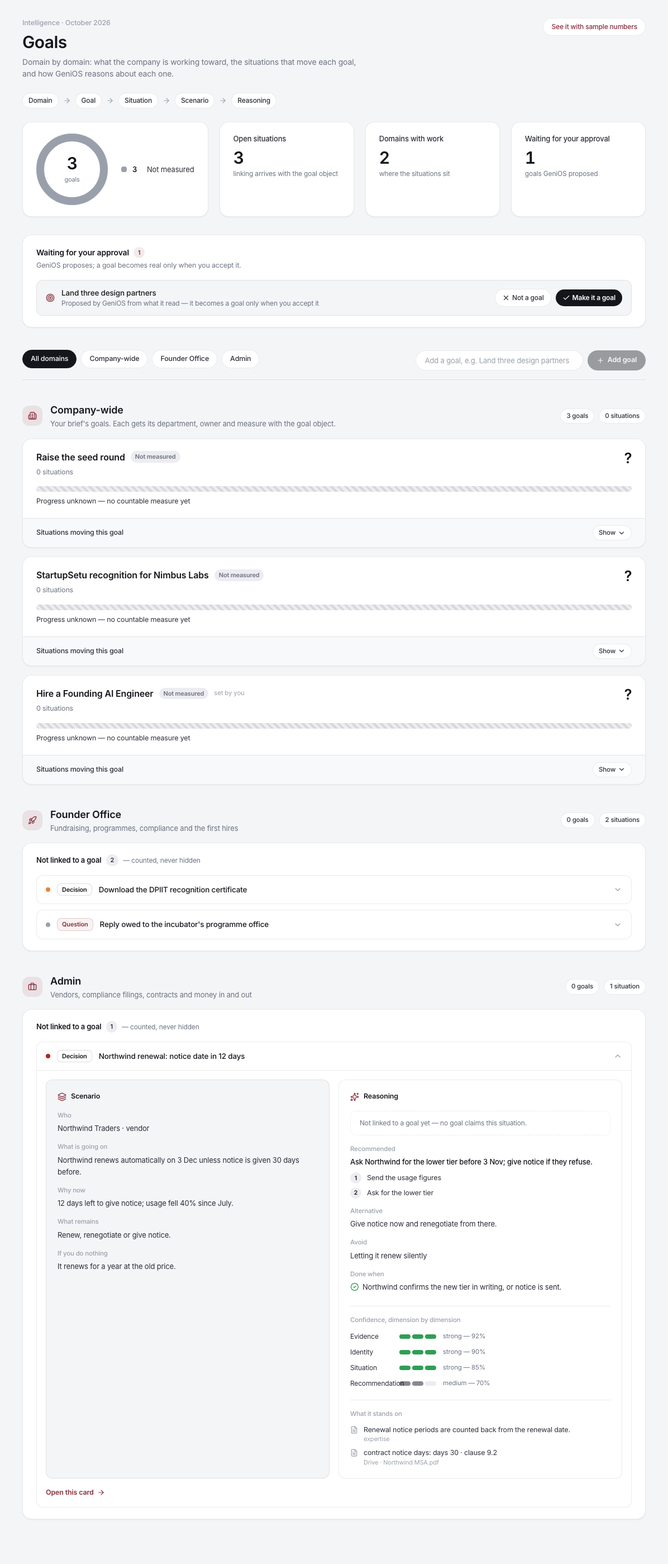
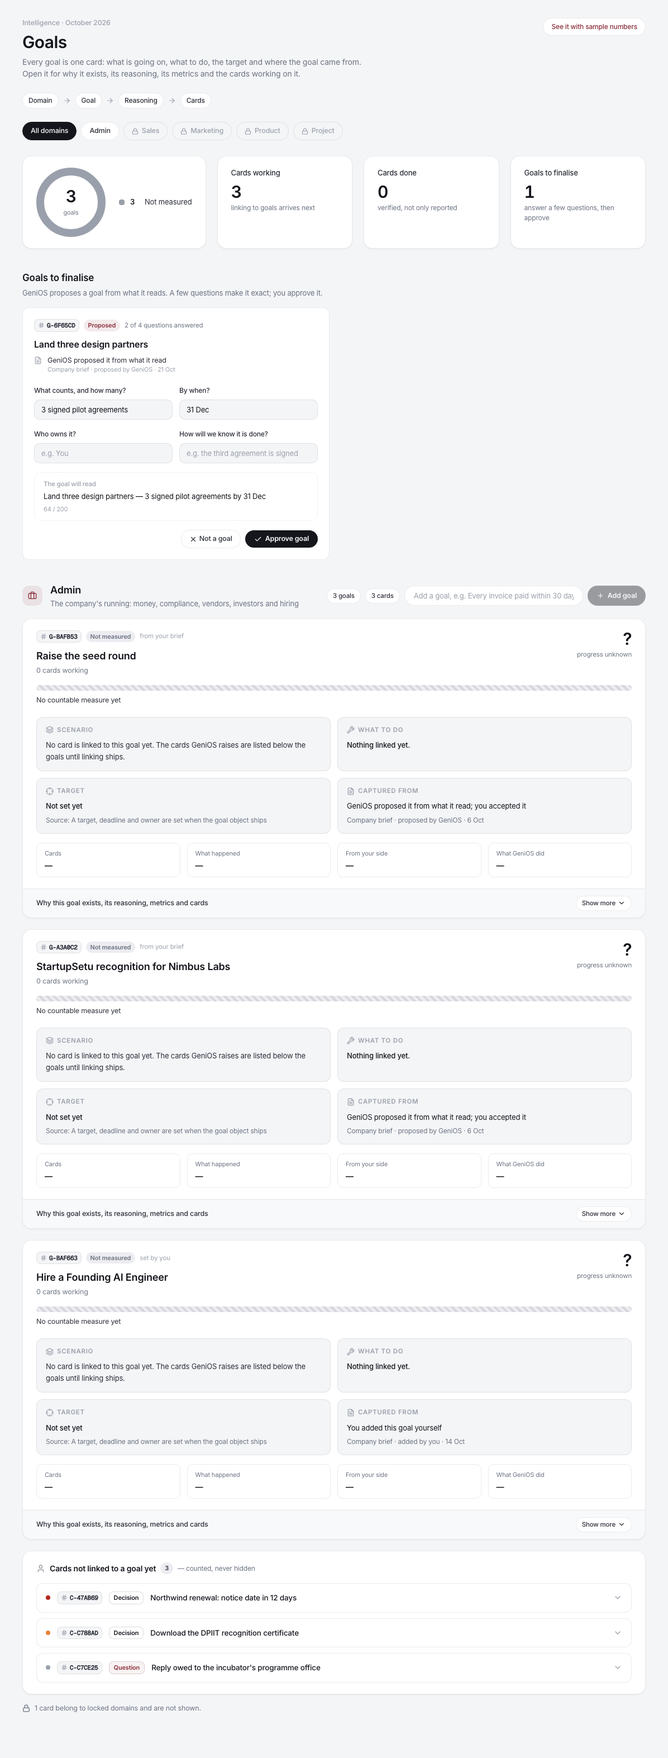
GeniOS-010: the Goals page as one goal, one card — what Harsh wires and what the brain returns
03-GOALS/01-GOALS-PAGE.md rewritten for dashboard e4ff9ce: the goal card's face (scenario,
what to do, target and source, captured from) and Show more (why with proof, reasoning,
metrics, numbered cards), ids and card numbers, finalise-then-approve, Admin-only domains,
live vs sample, and §5 — the fields GET /v1/goals must return for every part. Decisions
D-010-G5 (stable card ordinals) and G6 (Admin only); screenshots, stand-in brain, log.

diff --git a/speedrun008/GeniOS-010/02-DASHBOARD-HOME/tools/mock_brain.py b/speedrun008/GeniOS-010/02-DASHBOARD-HOME/tools/mock_brain.py
@@ -4,7 +4,8 @@ Serves on 127.0.0.1:8000 and allows CORS (with credentials) from http://localhos
 for another port. Paths use the org id `org_preview`; plant it as `genios_org_id` in the browser (see
 ../06-RUN-AND-TEST.md §4). Every body mirrors the shape the real route returns; edit a value to see an
 edge case (a failing source, a succeeded delegation, outcomes > 0). The Goals page's writes work too:
-POST /v1/company-brief/lines adds a goal, POST …/proposals/{id}/decide accepts or rejects one (in memory).
+POST /v1/company-brief/lines adds a goal; POST …/proposals/{id}/decide accepts (in the sent `text`,
+as the brain does) or rejects one — in memory. One card is in the locked Sales domain on purpose.
 Unknown paths → 404.
 """
 import json
@@ -80,6 +81,10 @@ ROUTES = {
          "headline": "Northwind renewal: notice date in 12 days", "score": 85, "state": "surfaced",
          "situation": "Northwind renews automatically on 3 Dec unless notice is given 30 days before.",
          "created_at": iso(50), "expires_at": iso(-200)},
+        {"card_id": "c-sales", "signal_id": "s4", "assignee": None, "urgency_band": "standard",
+         "headline": "Follow up on the Acme pilot proposal", "score": 30, "state": "surfaced",
+         "situation": "A sales thread — its domain is locked for this workspace.",
+         "created_at": iso(60), "expires_at": iso(-200)},
     ]},
     "/v1/expertise/domains": {"active_count": 2, "available_count": 2, "domains": [
         {"id": "founder_office", "name": "Founder Office", "version": "1", "status": "ga", "description": "",
@@ -92,6 +97,7 @@ ROUTES = {
 
 # GET /cards/{id}: card.v1 plus the decision projection, the way the brain's get_card returns it.
 CARD_DETAILS = {
+    "c-sales": {"domain": "sales", "output_lane": "decision"},
     "c-dpiit": {"domain": "founder_office", "output_lane": "decision", "business_subject": "StartupSetu desk",
                 "relationship_role": "the programme", "why_now": "Banks and two programmes asked for it this month.",
                 "unresolved_item": "Download it and save it to Compliance.",
@@ -171,8 +177,9 @@ class H(BaseHTTPRequestHandler):
             if proposal is not None:
                 brief["proposals"].remove(proposal)
                 if sent.get("decision") == "accept":
-                    brief["lines"].append({**{k: proposal[k] for k in ("line_id", "section", "text", "kind", "proposed_by")},
-                                           "accepted_at": iso(0)})
+                    # The brain accepts in the founder's own words when `text` is sent (store.accept words=…).
+                    brief["lines"].append({**{k: proposal[k] for k in ("line_id", "section", "kind", "proposed_by")},
+                                           "text": sent.get("text") or proposal["text"], "accepted_at": iso(0)})
                 body = {"line_id": line_id, "status": "accepted" if sent.get("decision") == "accept" else "rejected",
                         "promoted": 0}
         else:

diff --git a/speedrun008/GeniOS-010/03-GOALS/01-GOALS-PAGE.md b/speedrun008/GeniOS-010/03-GOALS/01-GOALS-PAGE.md
@@ -1,118 +1,142 @@
-# 03.1 · The Goals page: Intelligence → Goals
+# 03.1 · The Goals page: one goal, one card
 
 **Written for:** Harsh.
 
 **Status, 22 Oct 2026:** built, and live where the brain allows it.
+- **Commits** on `rohit/nav-grouping` (`genios-brain-dashbaord`):
+  - `f137d41`: first version;
+  - `e4ff9ce`: reworked to Rohit's model below.
+- **Route:** `/dashboard/goals`, at Intelligence ▸ **Goals**. The home page's "This month's goal" heading links to it.
 
-- **Commit:** `f137d41` on `rohit/nav-grouping` (`genios-brain-dashbaord`).
-- **Route:** `/dashboard/goals`. It is unlocked in the nav (Intelligence ▸ Cards · **Goals** · Screen), and the home page's "This month's goal" heading links to it.
-
-**Rohit's ask:**
-- *"domain-wise goals honge, goals-wise situations honge, situation-wise scenarios honge, aur uske regarding reasoning"*.
-- That chain is the page.
+**Rohit's model, in his words (22 Oct):**
+- *"Goals banenge, goals ke regarding cards banenge. Cards ki reasoning wo apna part hoga."*
+- *"Ek goal ka ek card."* Its face shows *kya scenario hai · kya karna hai · target kahan se hai · capture kahan se hai*.
+- **Show more** holds why the goal exists, where it was captured, the reasoning, and all its cards.
+- *"Pehle sawaal pooch kar hum goals final kar lein, phir approve karwa lein."*
+- *"Ek goal ke andar kai cards … jab tak goal complete nahi ho jata."*
+- Metrics without bombarding: what happened, the loopholes from your side, and what we did.
+- Every goal has a UUID-style id, and its cards are numbered, so anything is identified at once. Behind everything sits a proof.
+- **Domains:** Admin only. Sales, Marketing, Product and Project are shown but locked. Founder Office is removed (folded into Admin).
 
 **Screenshots** (in `screens/`):
 
 | File | What it shows |
 |---|---|
-| `goals-sample-top.png` · `goals-sample-bottom.png` | The target, in sample mode. The first situation is opened. |
-| `goals-signed-in.png` | A signed-in owner, against the stand-in brain (`../02-DASHBOARD-HOME/tools/mock_brain.py`). Northwind is opened. |
+| `goals-sample-top.png` · `goals-sample-bottom.png` | The target, in sample mode. The first goal is open. |
+| `goals-signed-in.png` | A signed-in owner, against the stand-in brain. |
 
 ---
 
-## 1 · What the page shows, top to bottom
+## 1 · The page, top to bottom
 
-1. **Header:** "Intelligence · October 2026", **Goals**, one line on what the page is. In live mode, a "See it with sample numbers" link.
-2. **The chain as pills:** Domain → Goal → Situation → Scenario → Reasoning. It tells the reader how to read everything below.
-3. **Overview:**
-   - a **donut of goals by status**: done · on track · at risk · blocked · not measured;
-   - three tiles: **open situations** (and how many are linked to a goal), **domains with work**, and **waiting for your approval**.
-4. **Waiting for your approval:**
-   - the goals GeniOS **proposed** from what it read, each with **Not a goal** / **Make it a goal**;
-   - invariant: *an inferred goal never becomes approved without a human* (GeniOS-009 05 §5).
-5. **A filter row:** All domains · each domain (scopes everything below), and **Add a goal** (the founder's own goal, in force at once).
-6. **One section per domain:**
-   - **Header:** icon, name, one line on what it covers, and pills (N goals · N situations · average progress when measurable).
-   - **A card per goal:**
-     - the statement, a status chip and "set by you" when the founder added it;
-     - owner · due · number of situations;
-     - **progress % with a bar and a dark "today" marker**. Unknown progress is a striped bar with "?", never 0;
-     - a **"Situations moving this goal"** row with relation chips (N advances · N threatens · N depends on) and **Show / Hide**.
-   - **Situations under a goal, ordered decision → conflict → question → waiting, then by urgency.** Each row shows an urgency dot, a lane chip, the headline, a relation chip and the due date. **Click it to open:**
-     - **Scenario:** who · what is going on · why now · what remains · if you do nothing;
-     - **Reasoning:**
-       - what it does to the goal ("Advances *Raise the seed round* through a sixth fund entering diligence");
-       - recommended, with numbered steps;
-       - alternative · avoid · wait or stop;
-       - **done when**;
-       - **confidence, dimension by dimension**, with the word and its reason;
-       - **what it stands on**: the quoted lines and their source;
-     - **Open this card →** (`/dashboard/cards?card=<id>`) for a live card.
-   - **Not linked to a goal (N), "counted, never hidden"**: the situations in this domain that no goal claims. GeniOS-009 06 §3 and §6: a card with no goal is shown and counted, never dropped.
+1. **Header** and the chain: **Domain → Goal → Reasoning → Cards**.
+2. **Domain tabs:** All domains · **Admin** · 🔒 Sales · 🔒 Marketing · 🔒 Product · 🔒 Project. A locked tab opens a "{Domain} is locked" panel with a link to Domains ▸ Expertise. Nothing of a locked domain is drawn.
+3. **Overview:** a donut of goals by status, then three tiles: **cards working** · **cards done** (verified, not only reported) · **goals to finalise**.
+4. **Goals to finalise:** for every goal GeniOS proposes, the ProposedGoalCard shows:
+   - its id `G-XXXXXX` and a **Proposed** chip;
+   - where GeniOS saw it (proof);
+   - **four questions**: what counts and how many · by when · who owns it · how we will know it is done;
+   - **"The goal will read …"**: the line the answers make, at most 200 characters (the brief's limit);
+   - **Not a goal** / **Approve goal**.
+5. **Admin:** a header with goal and card counts, and **Add a goal**. Then one **goal card** per goal.
+6. **Cards not linked to a goal yet:** counted, never hidden, each numbered `C-XXXXXX`.
+7. **Cards of locked domains:** counted in one line ("1 card belongs to a locked domain…"), not drawn.
 
-## 2 · Live vs sample
+## 2 · The goal card
+
+```
+┌─────────────────────────────────────────────────────────────────────────────┐
+│ #G-3F2A9C  On track  from your brief                                   40%  │
+│ Raise the seed round                                              progress  │
+│ Owner: You · Due 31 Dec · 4 cards working · 1 done                          │
+│ ████████████░░░░░░░░░│░░░░░░░  (the dark mark = where it should be today)   │
+│ 2 of 5 funds in diligence                                                   │
+│ ┌ SCENARIO ─────────────────────┐ ┌ WHAT TO DO ──────────────────────────┐ │
+│ │ Five funds in play: …         │ │ Reply to Rahul today; send Mohit …   │ │
+│ ├ TARGET ───────────────────────┤ ├ CAPTURED FROM ───────────────────────┤ │
+│ │ ₹4 Cr committed by 31 Dec     │ │ "We're raising a ₹4 Cr seed round…"  │ │
+│ │ Source: your brief, 2 Oct …   │ │ Gmail · your mail to Anil · 28 Sep   │ │
+│ └───────────────────────────────┘ └──────────────────────────────────────┘ │
+│ [Cards 4 open · 1 done] [What happened 3] [From your side 2 gaps] [GeniOS did 3] │
+├ Why this goal exists, its reasoning, metrics and cards          Show more ▾ ┤
+│ Why this goal exists — the reason, with proof lines (source · date)         │
+│ Reasoning — how progress is counted, what moves it, what threatens it       │
+│ Metrics — What happened · From your side (loopholes) · What GeniOS did,     │
+│           each line with its proof                                          │
+│ Cards for this goal — they keep coming until the goal is done               │
+│   ● #G-3F2A9C · C01  Decision  Write to Rahul Menon…   Advances   today ▾   │
+│       → Scenario (who · what · why now · what remains · if nothing)         │
+│       → The card's reasoning (impact on the goal · recommended + steps ·    │
+│         alternative · done when · confidence by dimension · proof)          │
+│   ● #G-3F2A9C · C05  Done — verified                                        │
+│ Goal ID cbl_3f2a9c1e07b84d6a9e52c1d0                                        │
+└─────────────────────────────────────────────────────────────────────────────┘
+```
+
+**Ids:**
+- **A goal's code** = `G-` + the first six hex characters of its id (`cbl_…` today, `goal_id` after G1). The full id is printed at the foot of the open card.
+- **A card's number** = `{goal code} · C{nn}`, numbered within its goal. An unlinked card is `C-` + the first six hex characters of its `card_<hex>` id.
+- ⚠ **Brain:** today `nn` is the card's position in the list. For a number that never shifts, G4 should store an ordinal per link (`goal_situation_links.ordinal`, assigned when first admitted) and return it. See §5.
+
+## 3 · Live vs sample
 
 | | Sample (`?demo=1`, or localhost signed out) | Live, signed in, today |
 |---|---|---|
-| Domains | Founder Office, Admin | **Company-wide** (the brief's goals; they have no department yet), plus every domain that has an open card (`card.domain`, named from `/v1/expertise/domains`) |
-| Goals | 6, with status, %, pace, owner, due | the brief's **accepted** goal lines: status **Not measured**, progress unknown (no G5) |
-| Situations under a goal | linked, with a relation | **none yet.** The goal says so ("Situations are linked to goals by the goal object…"), because there is no G4 |
-| Not linked | 1 (F22) | **every open card**, under its domain |
-| Scenario | sample lines | the card's real lines: `business_subject · relationship_role`, `situation`, `why_now`, `unresolved_item`, `do_nothing_consequence` |
-| Reasoning | full target: impact, six confidence dimensions | the card's real reasoning: `decision.recommendation` (verdict, steps, avoid), `alternative`, `wait_or_stop`, `success_signal` (done when), `decision.confidence` (each 0–1 → strong ≥ 75% · medium ≥ 50% · weak), `why[]` (readings, doctrine, check lines) |
-| Proposals · add a goal | buttons shown, disabled | **work**: `POST …/proposals/{id}/decide` and `POST /v1/company-brief/lines` |
+| Goals | 5 Admin goals with status, %, owner, due and the full face | the brief's **accepted** goal lines, in Admin. Status **Not measured**; target "Not set yet"; scenario and what-to-do say no card is linked yet |
+| Captured from | a mail, a calendar entry or "added by you", with date | **real**: "GeniOS proposed it from what it read; you accepted it" or "You added this goal yourself", with the accepted date |
+| Why it exists + proof | sample reason with proof lines | **real**: it is a goal in your brief, with the goal line and its date as proof |
+| Metrics | three lists with proof | "—". Counted per goal once cards are linked |
+| Cards in a goal | numbered, linked, each with reasoning | none yet (no G4). Every Admin card is under "Cards not linked to a goal yet" with its **real** scenario and reasoning |
+| Goals to finalise | one proposal, two of four questions answered, buttons disabled | **works**: the answers make the line, and **Approve goal** accepts it *in those words* (`decide` with `text`). **Not a goal** rejects it |
+| Add a goal | disabled | **works**: `POST /v1/company-brief/lines` |
+| Locked domains | — | cards whose `domain` is not `admin` / `founder_office` are counted, not shown |
 
-## 3 · Files
+Checked against the stand-in brain:
+1. Answering "3 signed pilot agreements · 31 Dec · Rohit" and approving left the brief holding exactly `Land three design partners — 3 signed pilot agreements by 31 Dec · owner: Rohit`.
+2. The proposal left the list.
+3. The new goal card appeared.
+
+## 4 · Files
 
 All paths are under `src/`.
 
 ```
-app/dashboard/goals/page.tsx                    the route
+app/dashboard/goals/page.tsx                   the route
 product/internal/dashboard/goals/
-  types.ts                                      Domain · Goal · Situation · Scenario · Reasoning (+ GoalStatus, Relation, Lane)
-  sample.ts                                     SAMPLE_GOALS_VIEW — built from GeniOS-009 06 §2–§4 (F02, F03, F13, F14, F15, F22, F24, F25)
-  live.ts                                       liveGoalsView(brief, cards, details, domainNames) · situationFromCard · sortSituations
-  goals-page.tsx                                GoalsPage, DomainSection, GoalCard, SituationRow, ScenarioPanel, ReasoningPanel, Proposals, AddGoal
-lib/api-goals.ts                                getCompanyBrief · addGoal · decideGoalProposal
-components/layout/sidebar.tsx                   Goals: { href: "/dashboard/goals" } (was locked)
-product/internal/dashboard/homepage/sections/genios-at-work.tsx   "Open goals" in §1's heading
+  types.ts        Goal (uuid, code, face: scenario · nextMove · target · captured; why + proof; reasoning;
+                  metrics; cards) · GoalCardItem (number, lane, state, scenario, reasoning) · ProposedGoal
+                  (questions) · Proof · GoalsView
+  sample.ts       SAMPLE_GOALS_VIEW — Admin, 5 goals, 11 cards, 1 proposal (from GeniOS-009 06 §2–§4)
+  live.ts         OPEN_DOMAIN, LOCKED_DOMAINS, shortCode, cardItem, finalGoalLine, liveGoalsView, sortCards
+  goals-page.tsx  GoalsPage · GoalCardView · ProposedGoalCard · CardRow · CardScenario · CardReasoning · AddGoal
+lib/api-goals.ts                               getCompanyBrief · addGoal · decideGoalProposal(lineId, decision, text?)
 ```
 
-It reuses the home page's `ui.tsx` (CARD, Pill, IconBox) and `charts.tsx` (Donut, PaceBar), so the two pages look like one product.
+## 5 · What the brain should return so every part is real
 
-## 4 · Calls it makes, live
+GeniOS-009 G1–G9, read through this page. `GET /v1/goals` (G1.4) should carry, per goal:
 
-```
-GET  /v1/company-brief                        → lines (section "goals") → goals; proposals (section "goals") → waiting
-GET  /cards                                   → open cards
-GET  /cards/{id}            ×N (≤ 40, parallel) → domain, scenario lines, decision, why
-GET  /v1/expertise/domains                    → domain names
-POST /v1/company-brief/lines                  { section: "goals", text }       (Add goal)
-POST /v1/company-brief/proposals/{id}/decide  { decision: "accept" | "reject" } (Make it a goal / Not a goal)
-```
+| On screen | Field (proposal) | From |
+|---|---|---|
+| `G-XXXXXX`, full id | `goal_id` | G1 |
+| Statement, status chip | `statement`, `status` + the D-010-G1 rule | G1 + README §4 |
+| Owner · due | `owner_seat`, `deadline` | G1 |
+| % and progress line | `progress.state / share_bp / actual / target / why` | G5 |
+| **Scenario** | `scenario`: one or two sentences on where the goal stands, written from its counted links ("5 funds: 2 in diligence, …"). The counted line is G5's; the wording is L2's, claim-checked | G5 `counted` + G3 |
+| **What to do** | `next_move`: the recommendation of the goal's top open card (decision lane, nearest due) | G6 board order |
+| **Target · source** | `target_text` (metric + target + unit + deadline in words), `target_source` (who set it, when) | G1 `metric`, `target`, `unit`, `deadline`, `approved_by/at` |
+| **Captured from** | `captured`: `{text, source, at}`. The founder's own line, or the drafter's evidence quote and its mail/meeting | G1 `source` + the brief proposal's `evidence` |
+| **Why it exists + proof** | `why`, `why_proof[]` | G1 (the approval) + the proposal's evidence |
+| **Reasoning** | `reasoning[]`: how progress is counted, what moves it, what threatens it | G5 + G4 relations |
+| **Metrics** | `metrics.happened[]`, `metrics.your_gaps[]`, `metrics.genios_did[]`, each `{text, source, at}` | G9 progress events, G7 check-in states (owed by the founder, overdue), L4/L5 actions (drafts, reminders, verifications) |
+| **Cards** | `cards[]`: `{card_id, ordinal, relation, state}`, ordered decision → conflict → question → waiting, then due | G4 links (with a stable `ordinal`) + G6 `goal_refs` + G7 `verified_complete` |
 
-- The first three are read in parallel. The page is ready when either the brief or the cards answer.
-- The card details fill in afterwards; until then an opened situation's reasoning reads "Reading the reasoning…".
-- The two writes need an **account owner** (`require_account_owner`). A member gets 403, shown as the notice line.
+**How the dashboard uses it:**
+- Each card's own scenario and reasoning keep coming from `GET /cards/{id}`, exactly as today.
+- Once `GET /v1/goals` returns the fields above, `goals/live.ts` maps them and sets `linked: true`.
+- The components do not change; sample mode already draws this shape.
 
-⚠ **N+1:** reading every open card's detail is fine for tens of cards. If an org has hundreds, add `GET /cards?detail=1` (or a `domain` field on `/cards`) and drop the per-card reads. See `README.md` §6.
-
-## 5 · What makes it fully live: the brain side (GeniOS-009)
-
-| Piece | Today | Needs | Then the page |
-|---|---|---|---|
-| A goal's **department** | none, so goals are "Company-wide" | **G1** `Goal.department` | each goal sits under its domain |
-| **Owner, due, measure** | none | **G1** `owner_seat`, `deadline`, `metric`/`target` | owner · due · % appear on the card |
-| **Progress** | unknown | **G5** `GoalProgress` (measured / counted / unknown + why) | the bar, the %, "progress unknown — {why}" |
-| **Status** (done / on track / at risk / blocked) | "Not measured" | **D-010-G1** rule in `GET /v1/goals` (`README.md` §4) | chips and the donut |
-| **Goal ↔ situation** | none, so all "not linked" | **G4** `goal_situation_links` (advances / threatens / depends_on / unclear) | situations move under their goal with a relation |
-| **Impact line** in reasoning | "Not linked to a goal yet" | **G3** goal impact in the judgment (`relation` + `through`) | "Advances X through Y" |
-| **Six confidence dimensions** | the card's four (evidence, identity, situation, recommendation) | GeniOS-008 L2-9 six dimensions on the card | the six rows |
-| **Done when** as a definition of done | `success_signal` | **G7** `definition_of_done` | stays the same field on screen |
-
-**When `GET /v1/goals` ships:**
-1. Write `mapGoal()` in `goals/live.ts` from the shape in `README.md` §3.
-2. Group goals by `department`, and put each card under the goal its G4 link names (`goal_refs` from G6 on the card, or a `links` array on the goal).
-3. Set `linked: true`.
-
-The component code does not change: sample mode already draws exactly that.
+**The proposed goal's four questions:**
+- They are client-side today. The answers become the accepted words.
+- After G1 they should land as structured fields, via `PATCH /v1/goals/{id}`: `metric`/`target`/`unit` from "what counts", `deadline` from "by when", `owner_seat` from "who owns it", `definition_of_done` from "done when".
+- The questions can also be served by the brain (G1 + D-010-G1), so the drafter asks what it actually lacks.

diff --git a/speedrun008/GeniOS-010/03-GOALS/README.md b/speedrun008/GeniOS-010/03-GOALS/README.md
@@ -3,7 +3,11 @@
 **Written for:** Harsh (to build against) and Rohit (we edit goals here next).
 
 **Status, 22 Oct 2026:**
-- **The Goals page is built and live:** Intelligence ▸ Goals, `/dashboard/goals`, commit `f137d41`. It runs Domain → Goal → Situation → Scenario → Reasoning. See **`01-GOALS-PAGE.md`**.
+- **The Goals page is built and live:** Intelligence ▸ Goals, `/dashboard/goals`, commits `f137d41` and `e4ff9ce`.
+  - It follows Rohit's model: **one goal, one card**. Its face shows the scenario, what to do, the target and where it comes from, and where it was captured.
+  - **Show more** opens why it exists, its reasoning, its metrics and its numbered cards.
+  - A goal is finalised by questions, then approved.
+  - Only Admin is open. See **`01-GOALS-PAGE.md`**.
 - **Live today:**
   - the brief's goals;
   - accept or reject what GeniOS proposes;
@@ -19,16 +23,16 @@
 | Place | What it shows now | File (dashboard repo, `src/`) |
 |---|---|---|
 | Nav: Intelligence ▸ **Goals** | **unlocked**, opens `/dashboard/goals` | `components/layout/sidebar.tsx` |
-| **The Goals page** | Domain → Goal → Situation → Scenario → Reasoning; live brief goals, proposals, add a goal, situations under their domain (`01-GOALS-PAGE.md`) | `app/dashboard/goals/page.tsx`, `product/internal/dashboard/goals/*`, `lib/api-goals.ts` |
+| **The Goals page** | Admin → goal cards (G-XXXXXX) → reasoning → numbered cards (G-XXXXXX · C01); finalise-then-approve for proposed goals; add a goal; locked domains (`01-GOALS-PAGE.md`) | `app/dashboard/goals/page.tsx`, `product/internal/dashboard/goals/*`, `lib/api-goals.ts` |
 | Home §1 **This month's goal** | live: the month ring and a faded preview · sample: donut + pace + rows · heading links to **Open goals** | `product/internal/dashboard/homepage/sections/genios-at-work.tsx` (`MonthOnly`, `MonthPace`, `GoalRows`, `SAMPLE_GOALS`) |
 | Home §4 **Goals formed** card | live: 0 with flat weeks · sample: 5 this month | `homepage/live.ts · liveHeadlineCards`, `homepage/data.ts · headlineCards` |
 | Home §5 checks | "No goals set yet, so progress toward them cannot be shown" | `homepage/live.ts · liveChecks` |
 
 Screenshot: `../02-DASHBOARD-HOME/screens/home-sample.png`, top section (sample).
 
-## 2 · The shape the screen draws
+## 2 · The shape home §1 draws
 
-From `genios-at-work.tsx`:
+From `genios-at-work.tsx`. The Goals page's own shape, the goal card, is in `01-GOALS-PAGE.md` §4–§5.
 
 ```ts
 type GoalStatus = "done" | "on_track" | "at_risk" | "blocked";
@@ -86,13 +90,15 @@ These are `STEP-G1` (goal object) and `STEP-G5` (progress). G1.4 serves `GET /v1
 | **D-010-G1** | How is a goal's **status** (done / on track / at risk / blocked) decided? | **done:** `status = completed`. **blocked:** an open link with relation `depends_on` whose situation is not moving (or a person marks it). **at risk:** `pct` is more than 15 pts behind the goal's own pace, or a `threatens` link is open. **on track:** otherwise. Computed in the brain (`GET /v1/goals`), not in the browser, so every surface agrees. |
 | **D-010-G2** | What are **"this month's goals"**? Rohit: *"monthly goals kya hain, is mahine ke goals ke kitne poore ho rahe hain"*. | Every live goal whose `deadline` falls in the current month, **plus** any longer goal's milestone due this month. That needs a `parent_goal_id` child per month (G1 already has `parent_goal_id`). Until milestones exist: deadline in this month. |
 | **D-010-G3** | Pace for a goal that is not a month long. | Expected progress = time elapsed between `starts_on` and `deadline`. The screen then draws each row's marker at that goal's own pace. Today it uses the month for every row. |
-| **D-010-G4** | ~~Where is the full Goals page?~~ **Built** (`01-GOALS-PAGE.md`). Domain → goal → situations (advances / threatens / depends on) → scenario → reasoning, with "not linked" per domain. | — |
+| **D-010-G4** | ~~Where is the full Goals page?~~ **Built** (`01-GOALS-PAGE.md`): one goal card per goal, with its reasoning and numbered cards. | — |
+| **D-010-G5** | Card numbers that never shift. | G4 stores an `ordinal` per goal link when it is first admitted. The dashboard prints `G-XXXXXX · C{ordinal}`. |
+| **D-010-G6** | Which domains are open on the Goals page. | **Admin only** (Rohit, 22 Oct). Founder Office folds into Admin; Sales, Marketing, Product and Project are listed and locked. |
 
 ## 5 · What we edit next, in this folder
 
 Rohit opens these. Each gets its own file here:
 
-1. ✅ `01-GOALS-PAGE.md`: the Intelligence ▸ Goals page: built, with what is live and what waits for G1/G3/G4/G5/G7.
+1. ✅ `01-GOALS-PAGE.md`: the Intelligence ▸ Goals page (one goal, one card). It is built, and covers what is live and what each GeniOS-009 step adds (§5 lists the fields `GET /v1/goals` must return).
 2. `02-HOME-GOALS-LIVE.md`: switching home §1 and the "Goals formed" card from sample to `GET /v1/goals`, once G1 + G5 exist.
 3. `03-STATUS-AND-PACE.md`: D-010-G1 to G3, written as the brain rule with tests.
 

diff --git a/speedrun008/GeniOS-010/LOG.md b/speedrun008/GeniOS-010/LOG.md
@@ -21,3 +21,7 @@
 | 22 Oct | Rohit: the folder must show in speedrun008, Harsh must get every detail, and Goals must be unlocked and built *"domain-wise goals, goal-wise situations, situation-wise scenarios, and the reasoning"*. Copied GeniOS-010 into the main checkout's `speedrun008/`. | `speedrun008/GeniOS-010/` |
 | 22 Oct | **The Goals page.** Domain → Goal → Situation → Scenario → Reasoning. Live: the brief's goals, accept or reject proposals, add a goal, every open card as a situation under its domain with its real scenario and reasoning. Goal department, progress and links wait for GeniOS-009 G1/G4/G5; sample mode shows the linked target. Checked signed in against the stand-in brain (accept and add both work), `tsc` and `next build` green. | dashboard `f137d41` |
 | 22 Oct | Docs: `03-GOALS/01-GOALS-PAGE.md` (new); 03-GOALS README, 01-NAVIGATION, 00-START-HERE, 02 README and RUN-AND-TEST updated; the stand-in brain serves the Goals page's routes. | this folder |
+| 22 Oct | Rohit reshapes Goals: *one goal, one card*. Its face shows scenario, what to do, target (and where it comes from) and where it was captured. Show more opens why it exists, reasoning, metrics (what happened · your side · GeniOS did) and its cards. Goals are finalised by questions, then approved; ids for goals, numbers for cards, proof behind everything. Only Admin is open; Founder Office is removed; Sales, Marketing, Product and Project are locked. | — |
+| 22 Oct | Built: goal cards `G-XXXXXX` with the face and Show more; cards numbered `G-XXXXXX · C01`; a four-question finalise card whose answers become the accepted words; Admin-only tabs with the four locked; home samples relabelled from Founder Office to Admin. Checked signed in against the stand-in brain: the brief held exactly the composed line after Approve. `tsc` and `next build` green. | dashboard `e4ff9ce` |
+| 22 Oct | Docs: `03-GOALS/01-GOALS-PAGE.md` rewritten. It covers the card layout, ids, live vs sample, and §5, the fields `GET /v1/goals` must return for every part. README decisions D-010-G5 (stable card ordinals) and G6 (Admin only) added; screenshots and the stand-in brain updated. | this folder |
+

diff --git a/speedrun008/GeniOS-010/00-START-HERE.md b/speedrun008/GeniOS-010/00-START-HERE.md
@@ -4,7 +4,7 @@
 
 **Status, 22 Oct 2026:**
 - Built and tested, but **not live**.
-- Everything is on the dashboard branch `rohit/nav-grouping` in `github.com/themoronss/genios-brain-dashbaord`: 14 commits on top of `origin/main` `6ddc4db`. The last one, `f137d41`, is the Goals page.
+- Everything is on the dashboard branch `rohit/nav-grouping` in `github.com/themoronss/genios-brain-dashbaord`: 15 commits on top of `origin/main` `6ddc4db`. The last two (`f137d41` and `e4ff9ce`) are the Goals page.
 - brain.thegenios.com serves `main`, so nothing here is visible until that branch is merged.
 - No brain code changed for any of this. Every brain change the design needs is listed in `02-DASHBOARD-HOME/05-BRAIN-WORK.md` and `03-GOALS/README.md`.
 
@@ -20,7 +20,7 @@
 |---|---|---|
 | [`01-NAVIGATION/`](01-NAVIGATION/README.md) | The sidebar regrouping (Intelligence · Context · Workspace · Desktop), locked items, Screen under Intelligence, the Expertise page showing locked domains. | First. It is small and explains where every page now lives. |
 | [`02-DASHBOARD-HOME/`](02-DASHBOARD-HOME/README.md) | The home page, section by section: what each shows, which brain route feeds it, what is sample-only, AER/HIR, the Screen page, how to run and test it, and the brain work it needs. | When you wire the home page to real data or merge the branch. |
-| [`03-GOALS/`](03-GOALS/README.md) | **The Goals page** (Intelligence ▸ Goals): Domain → Goal → Situation → Scenario → Reasoning. It shows what is live today and what waits for GeniOS-009 G1/G3/G4/G5/G7, plus the goal shape, its mapping onto `GET /v1/goals`, and the open decisions. | Before building GeniOS-009 G1–G5, so the API returns what the page draws. |
+| [`03-GOALS/`](03-GOALS/README.md) | **The Goals page** (Intelligence ▸ Goals): one goal, one card, with its reasoning and numbered cards inside, Admin only. It shows what is live today and the fields `GET /v1/goals` must return (GeniOS-009 G1/G3/G4/G5/G7/G9), plus the open decisions. | Before building GeniOS-009 G1–G5, so the API returns what the page draws. |
 
 ## How the pieces connect
 
